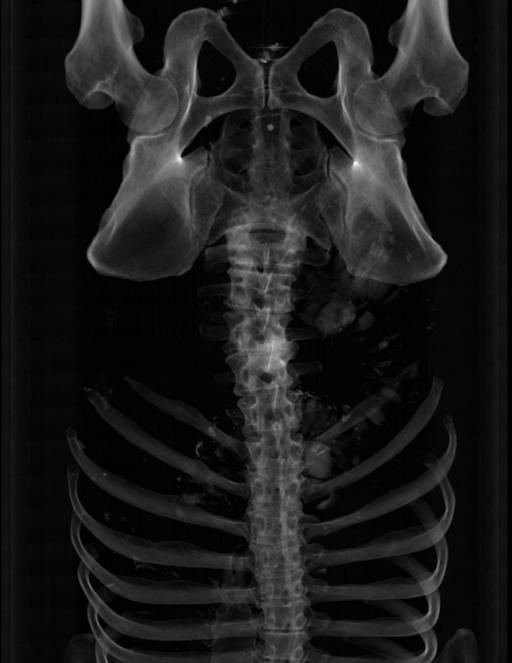
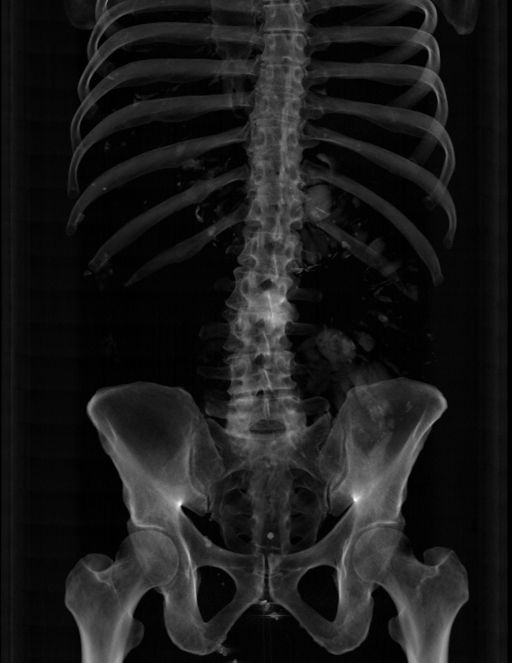
fix: anatomical DRR orientation (superior up; flip vertical when superior axis increases with index) — keep DRR + projected labels consistent; regen example

diff --git a/xrsp/drr.py b/xrsp/drr.py
@@ -50,8 +50,9 @@ def _orient2d(a2d, plan: Dict):
     """Reorient a (sum-over-proj-axis) 2-D array to display rows=superior↓, cols=anterior←."""
     rem = sorted([plan["v_axis"], plan["h_axis"]])
     img = a2d if rem[0] == plan["v_axis"] else a2d.T          # rows -> v_axis
-    if plan["v_sign"] < 0:
-        img = img[::-1, :]                                    # superior at top
+    if plan["v_sign"] > 0:                                    # index↑ = superior, so row 0
+        img = img[::-1, :]                                    # would be inferior -> flip up
+
     if plan["h_sign"] > 0:
         img = img[:, ::-1]                                    # anterior at left
     return np.ascontiguousarray(img)

diff --git a/tests/test_drr.py b/tests/test_drr.py
@@ -14,7 +14,7 @@ def _phantom(D=48):
     on an identity affine (world == index, so +Z superior, +Y anterior, +X left–right)."""
     vol = np.full((D, D, D), -1000.0, np.float32)      # air
     lab = np.zeros((D, D, D), np.int16)
-    zc = {"L3": 14, "L4": 22, "L5": 30}                # cranio-caudal: higher z = superior
+    zc = {"L3": 30, "L4": 22, "L5": 14}                # anatomic: cranial L3 at higher z
     for name, z in zc.items():
         sl = (slice(18, 30), slice(18, 30), slice(z, z + 6))
         vol[sl] = 600.0                                # bone HU

diff --git a/xrsp/project_labels.py b/xrsp/project_labels.py
@@ -28,7 +28,7 @@ def _project_point_vox(ijk, plan: Dict, shape) -> List[float]:
     """A voxel index (i,j,k) → image (x=col, y=row), matching the DRR's flips exactly."""
     r = ijk[plan["v_axis"]]
     c = ijk[plan["h_axis"]]
-    if plan["v_sign"] < 0:
+    if plan["v_sign"] > 0:                          # match _orient2d's vertical flip
         r = shape[plan["v_axis"]] - 1 - r
     if plan["h_sign"] > 0:
         c = shape[plan["h_axis"]] - 1 - c
